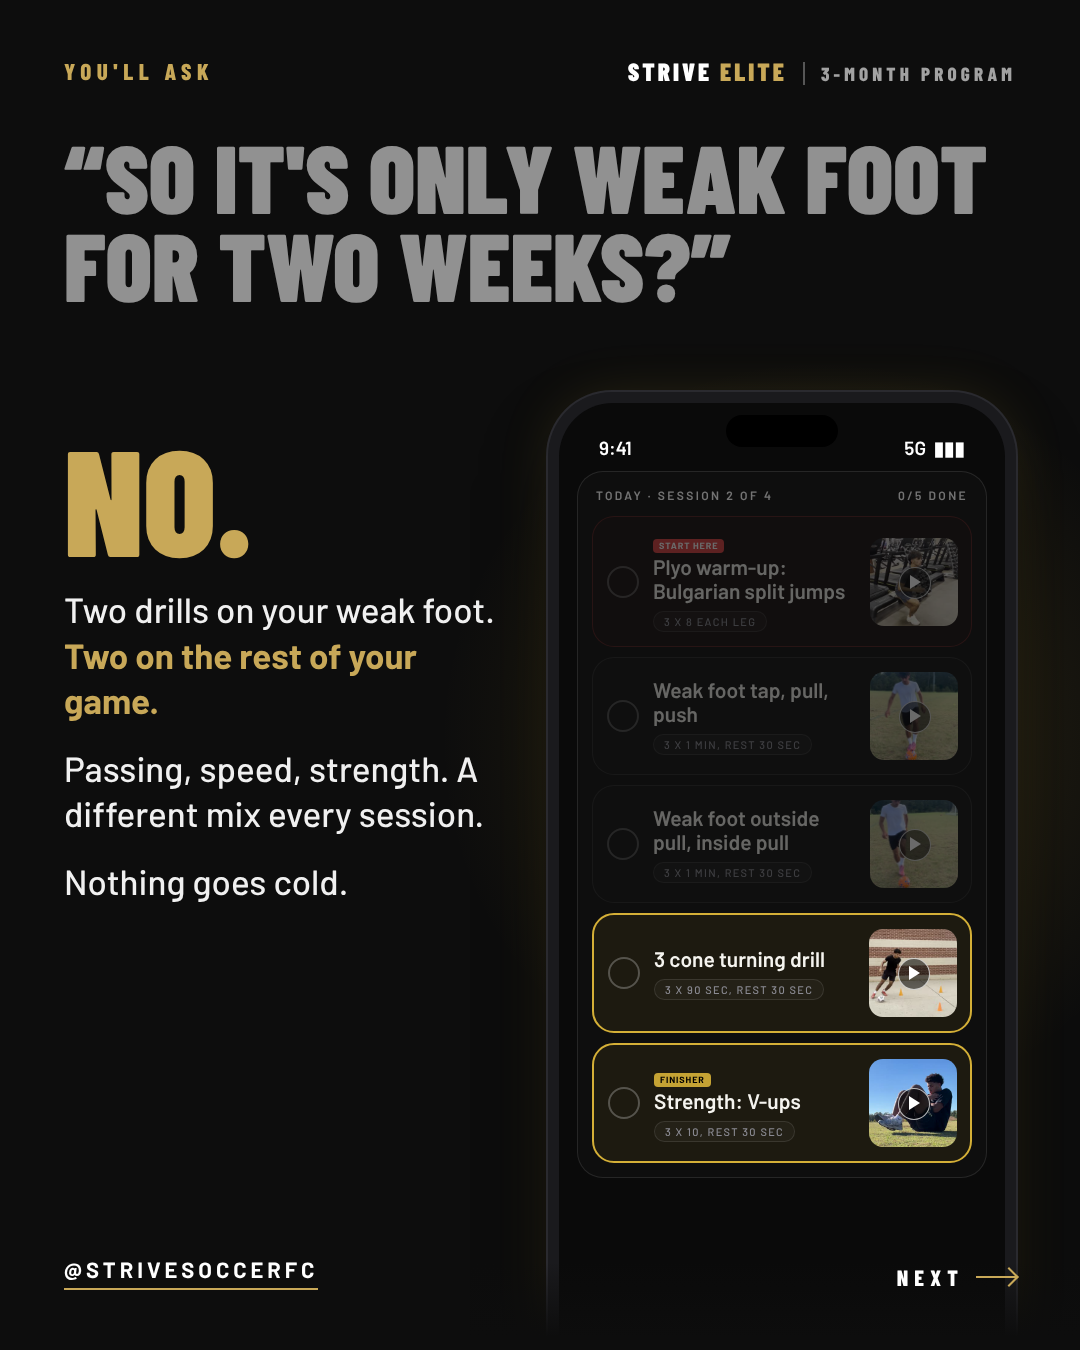
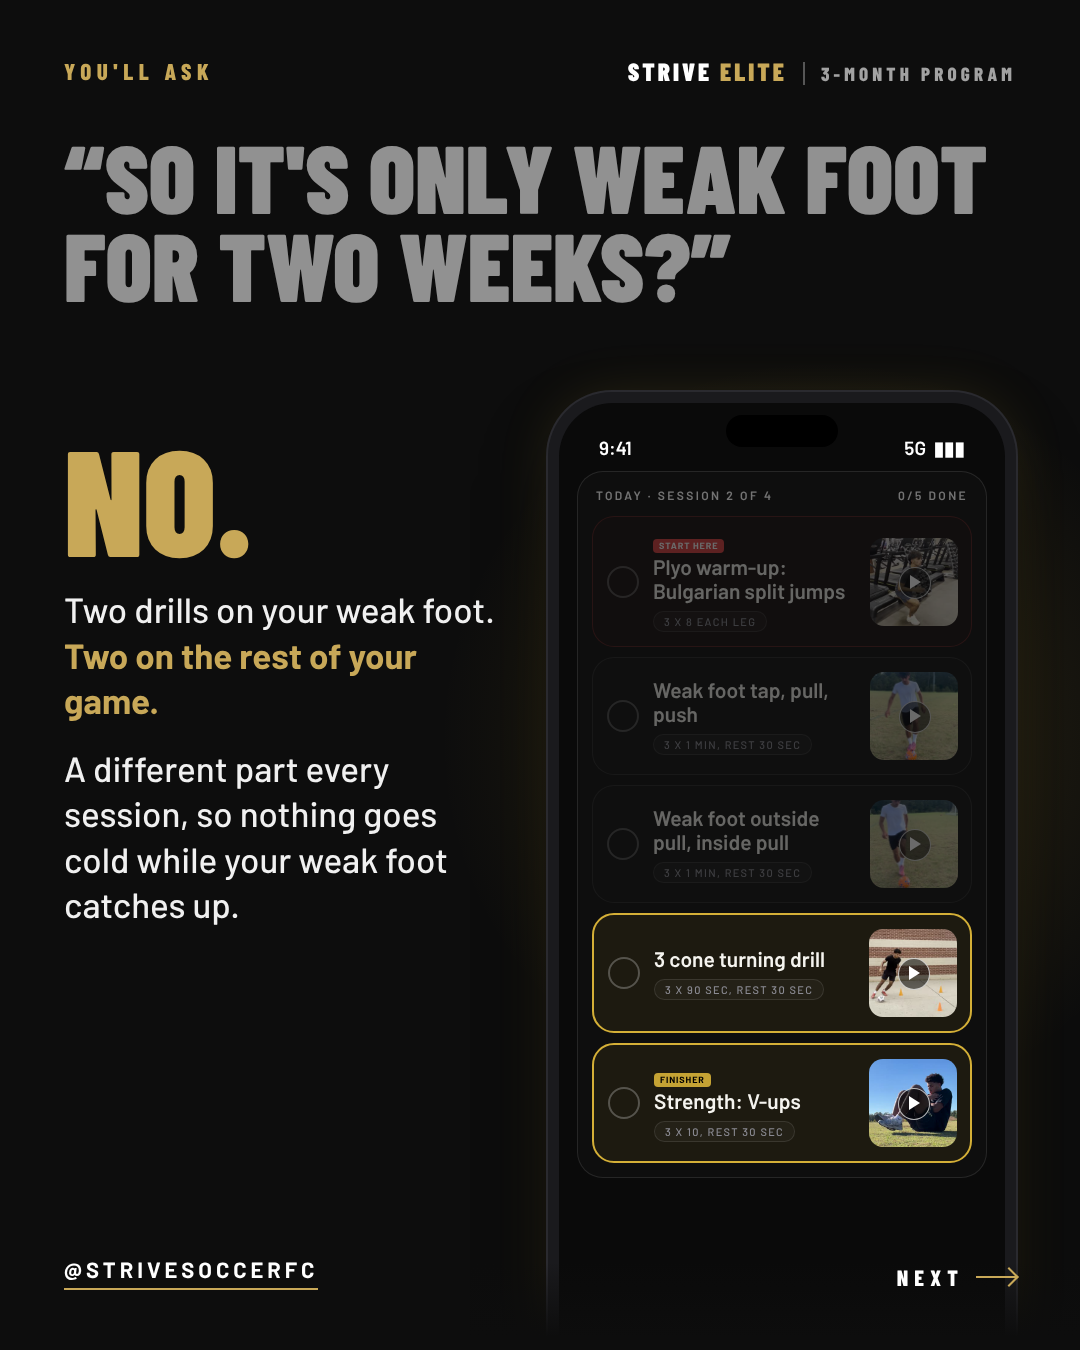
Opinion carousel draft 3: speed and strength and Film Room slides back, twelve slides
Claude-Session: https://claude.ai/code/session_011JsCTTjCbUkHbTuWTKQSXJ

Changed region(s): [[0.0611, 0.56, 0.4583, 0.6844]]

diff --git a/marketing/program/one-thing-carousel-3/10-speed-strength.html b/marketing/program/one-thing-carousel-3/10-speed-strength.html
@@ -1,0 +1,18 @@
+<!doctype html><meta charset="utf-8"><link rel="stylesheet" href="../../covers/strive-elite-meeting/fonts.css"><link rel="stylesheet" href="style.css"><title>Speed and strength</title>
+<style>.q{position:absolute;left:64px;right:64px;top:132px;font-size:96px}.card{min-height:100px;padding:11px 12px 11px 14px}.th{width:76px;height:76px}.phone{top:392px;height:960px}.copy{top:430px}.copy .big{font-size:92px;line-height:.9}</style>
+<div class="glow"></div>
+<div class="top"><div class="step">You'll ask</div><div class="wm">Strive <span>Elite</span><em>3-month program</em></div></div>
+<div class="q">&ldquo;What about speed and strength?&rdquo;</div>
+<div class="copy"><div class="big">They don't wait their turn.</div>
+<p class="p"><b>Speed work</b> comes right after the warm-up. <b>Strength</b> ends the session.</p>
+<p class="p">Every session, for as long as you need them.</p></div>
+<div class="phone"><div class="screen"><div class="island"></div><div class="status"><span>9:41</span><span>5G &nbsp;▮▮▮</span></div><div class="sess"><div class="shd"><span>Today · Session 2 of 4</span><span>0/6 done</span></div><div class="cards">
+<div class="card start lo"><div class="ck"></div><div class="tx"><div class="tl"><span class="bd red">Start here</span><span style="white-space:nowrap">Plyo warm-up:</span> Bulgarian split jumps</div><span class="chip">3 x 8 each leg</span></div><div class="th"><img src="app/plyo-bulgarian-split-jumps.jpg"></div></div>
+<div class="card hi"><div class="ck"></div><div class="tx"><div class="tl">Speed: Kneel and drive</div><span class="chip">4 each side, walk back</span></div><div class="th"><img src="app/speed-kneel-and-drive.jpg"></div></div>
+<div class="card lo"><div class="ck"></div><div class="tx"><div class="tl">Weak foot tap, pull, push</div><span class="chip">3 x 1 min, rest 30 sec</span></div><div class="th"><img src="app/weak-foot-tap-pull-push.jpg"></div></div>
+<div class="card lo"><div class="ck"></div><div class="tx"><div class="tl">Weak foot outside pull, inside pull</div><span class="chip">3 x 1 min, rest 30 sec</span></div><div class="th"><img src="app/weak-foot-outside-pull-inside-pull.jpg"></div></div>
+<div class="card lo"><div class="ck"></div><div class="tx"><div class="tl">3 cone turning drill</div><span class="chip">3 x 90 sec, rest 30 sec</span></div><div class="th"><img src="app/triangle-turning.jpg"></div></div>
+<div class="card hi"><div class="ck"></div><div class="tx"><div class="tl"><span class="bd gd">Finisher</span><span style="white-space:nowrap">Strength: V-ups</span></div><span class="chip">3 x 10, rest 30 sec</span></div><div class="th"><img src="app/strength-v-ups.jpg"></div></div>
+</div></div></div></div>
+<div class="fadeb"></div>
+<div class="handle">@strivesoccerfc</div><div class="swipe">Next <i></i></div>

diff --git a/marketing/program/one-thing-carousel-3/11-film.html b/marketing/program/one-thing-carousel-3/11-film.html
@@ -1,0 +1,35 @@
+<!doctype html><meta charset="utf-8"><link rel="stylesheet" href="../../covers/strive-elite-meeting/fonts.css"><link rel="stylesheet" href="style.css"><title>More to the game</title>
+<style>.q{position:absolute;left:64px;right:64px;top:132px;font-size:96px}.phone{top:404px;height:948px}.copy{top:440px}.copy .big{font-size:118px}
+.fr{padding:26px 22px 24px;margin-top:12px}
+.fr .e{font-size:15px}.fr .w{font-size:46px;margin-top:10px}.fr .s{font-size:19px;margin-top:6px}
+.fr .btn{font-size:20px;padding:12px 26px;margin-top:18px}
+.fr .u{font-size:22px;margin-top:24px;padding-top:20px}.fr .u small{font-size:17px;margin-top:5px;line-height:1.3}
+.fr .cl{font-size:20px;padding:15px 18px;margin-top:11px;border-radius:16px}
+.fr .ok{font-size:17px;margin-top:16px;line-height:1.3}
+.fr.mc{margin-top:16px;padding:22px 22px 24px}
+.fr .u2{margin-top:10px;font-size:24px;font-weight:600;color:#F5F4EF}
+.fr .pills{display:flex;flex-wrap:wrap;gap:10px;margin-top:16px}
+.fr .pills span{border:1px solid rgba(255,255,255,.16);border-radius:999px;padding:9px 16px;font-size:18px;color:#F5F4EF}
+.fr .pills span.on{border-color:#D4AF37;color:#D4AF37}</style>
+<div class="glow"></div>
+<div class="top"><div class="step">You'll ask</div><div class="wm">Strive <span>Elite</span><em>3-month program</em></div></div>
+<div class="q">&ldquo;There's more to the game than drills.&rdquo;</div>
+<div class="copy"><div class="big">We know.</div>
+<p class="p">Every Sunday, Coach Gary and I go through <b>clips from your games</b> with you, live on Zoom.</p>
+<p class="p">And once a month, a 1:1 call on where you're at.</p></div>
+<div class="phone"><div class="screen"><div class="island"></div><div class="status"><span>9:41</span><span>5G &nbsp;▮▮▮</span></div><div class="fr">
+<div class="e">This week's Film Room</div>
+<div class="w">Sunday at 7:00 PM ET</div>
+<div class="s">On Zoom with Coach Yinka and Coach Gary</div>
+<span class="btn">Join on Zoom</span>
+<div class="u">Upload 3 to 5 clips<small>From games or training, so we can watch them first.</small></div>
+<div class="cl"><b>✓</b>Clip 1 sent</div><div class="cl"><b>✓</b>Clip 2 sent</div><div class="cl"><b>✓</b>Clip 3 sent</div>
+<div class="ok">That's a full set. We'll go through them on the call.</div>
+</div><div class="fr mc">
+<div class="e">Monthly check-in call</div>
+<div class="u2">Pick a time</div>
+<div class="s">One call a month. Tap a time to book it.</div>
+<div class="pills"><span>9:00 AM</span><span class="on">9:30 AM</span></div>
+</div></div></div>
+<div class="fadeb"></div>
+<div class="handle">@strivesoccerfc</div><div class="swipe">Next <i></i></div>

diff --git a/marketing/program/one-thing-carousel-3/09-session.html b/marketing/program/one-thing-carousel-3/09-session.html
@@ -5,7 +5,7 @@
 <div class="q">&ldquo;So it's only weak foot for two weeks?&rdquo;</div>
 <div class="copy"><div class="big">No.</div>
 <p class="p">Two drills on your weak foot. <b>Two on the rest of your game.</b></p>
-<p class="p">Passing, speed, strength. A different mix every session.</p><p class="p">Nothing goes cold.</p></div>
+<p class="p">A different part every session, so nothing goes cold while your weak foot catches up.</p></div>
 <div class="phone"><div class="screen"><div class="island"></div><div class="status"><span>9:41</span><span>5G &nbsp;▮▮▮</span></div><div class="sess"><div class="shd"><span>Today · Session 2 of 4</span><span>0/5 done</span></div><div class="cards">
 <div class="card start lo"><div class="ck"></div><div class="tx"><div class="tl"><span class="bd red">Start here</span><span style="white-space:nowrap">Plyo warm-up:</span> Bulgarian split jumps</div><span class="chip">3 x 8 each leg</span></div><div class="th"><img src="app/plyo-bulgarian-split-jumps.jpg"></div></div>
 <div class="card lo"><div class="ck"></div><div class="tx"><div class="tl">Weak foot tap, pull, push</div><span class="chip">3 x 1 min, rest 30 sec</span></div><div class="th"><img src="app/weak-foot-tap-pull-push.jpg"></div></div>

diff --git a/marketing/program/one-thing-carousel-3/12-close.html b/marketing/program/one-thing-carousel-3/12-close.html
@@ -15,6 +15,6 @@ h1{font-size:104px;text-shadow:0 8px 50px rgba(0,0,0,.6)}
 <div class="pn l"></div><div class="pn r"></div><div class="ln"></div><div class="sh"></div>
 <div class="top"><div class="step">That's Strive Elite</div><div class="wm">Strive <span>Elite</span><em>3-month program</em></div></div>
 <div class="low"><h1>One thing at a time. Harder every week. <span>Nothing left behind.</span></h1>
-<p class="p">Three months, built around you by Coach Gary and me. Film Room every Sunday. A 1:1 call every month.</p>
+<p class="p">Three months, built around you by Coach Gary and me.</p>
 <div class="cta"><div class="pill">DM us "Elite"</div><span>Tell us your one thing. We'll take it from there.</span></div></div>
 <div class="handle">@strivesoccerfc</div>

diff --git a/CLAUDE.md b/CLAUDE.md
@@ -4016,6 +4016,7 @@ commit.
       THEN (Coach Yinka: "Add a slide that ads context into the weak foot because we just randomly say the weak foot gets 2 drills. Also can we trim down to less slides and more punchy"): DRAFT 3, NINE slides (draft 2 was twelve) at marketing/program/one-thing-carousel-3/ (html, png, carousel-preview.png, README with every line and the caption). NEW SLIDE 2 sets up the weak foot before the week is counted: "Every player has one thing holding them back." / "SAY IT'S YOUR WEAK FOOT." / "Defenders work it out in ten minutes. Then they show you onto it all game." / "Team training is for the team. This one's on you." / "SO HOW MUCH WORK DOES IT GET?" (the defenders line is mine, a picture not a statistic). Slide 3 answers it: "RIGHT NOW IT GETS 2 DRILLS." / "Four sessions. Twelve drills. A bit of everything. That's not training your weak foot. That's visiting it." TRIMMED: the team slide and "you know this session" are folded into slides 2 and 3; the session objections are ONE slide ("So it's only weak foot for two weeks?" / "No. Two drills on your weak foot. The third is the rest of your game. Speed after the warm-up. Strength to finish. Nothing goes cold.", one phone, those three cards lit); Film Room and the monthly call are one line on the close ("Three months, built around you by Coach Gary and me. Film Room every Sunday. A 1:1 call every month." / DM us "ELITE" / "Tell us your one thing. We'll take it from there."). Order: cover, weak foot, 2 drills, 8, harder, his comeback, you get six, the session, close. Drafts 1 and 2 stay in their folders. Sent, not posted.
       THEN (Coach Yinka, with a screenshot of the six-focus slide: "WOAHH wait what you made was really good, but befor mentioning one thing it needs to be clear in the slides that it's a 30 day program"): the length of the program is now stated before "one thing" comes up, in draft 3 (same folder, re-rendered). I READ "30 day" AS THE 3-MONTH PROGRAM and told him so: the app builds twelve weeks (migration 065), the slide he screenshotted shows months 1 to 3, and the offer is 90 days; a 30-day program would be a different product, not a wording change, so nothing says "30 days". CHANGES: the cover's second line is "A bit of everything keeps you the same player. This is the 3-month program that fixes it."; "3-MONTH PROGRAM" sits beside the Strive Elite wordmark on every slide; slide 7 answers "Good. It's three months. You get six." OPEN, his word: whether he did mean 30 days. Sent, not posted.
       THEN (Coach Yinka: "We should do 4 drills a session. Also keep the slide that was like everybody remembers this session, and it was the average normal session. Also instead of saying same 12 drills it's same 4 sessions."; asked the same hour, his answers: 4 drills a session is "Carousel only", and "2 of 4" go at the one thing): draft 3 is now TEN slides (same folder, renumbered, re-rendered). THE APP IS UNCHANGED, his call: it still builds a warm-up, three skill drills and a finisher, two of the three on the focus. To keep the picture a real session, each row on the "8" slide is weak foot, weak foot, one drill for the rest of the game, and the strength finisher or the speed drill (Passing + Strength, 1v1 skills + Speed, First touch + Strength, Ball mastery + Speed); the warm-up is not counted. CHANGES: (1) "YOU KNOW THIS SESSION." is back as slide 2 (Ten minutes of juggling. Some cone work. A few passes off the wall. A couple of shots. / You sweat. You go home feeling good. / THREE MONTHS LATER YOU'RE THE SAME PLAYER.), the weak foot set-up follows it as slide 3; (2) slide 4, four sessions of four blocks, two gold: "RIGHT NOW IT GETS 2 DRILLS." / "Four sessions. Sixteen drills. A bit of everything. That's not training your weak foot. That's visiting it." (the ordinary week names eight things incl. shooting and speed, as the session a player already does); (3) slide 5 "SAME 4 SESSIONS. NOW IT GETS 8."; (4) the session slide's phone shows the warm-up then four drills, "No. Two drills on your weak foot. Two on the rest of your game. Passing, speed, strength. A different mix every session. Nothing goes cold." Order: cover, this session, weak foot, 2 drills, 8, harder, his comeback, you get six, the session, close. "30 day" versus 3-month is still unanswered by him; the slides say 3-month. Sent, not posted.
+      THEN (Coach Yinka: "I liked the one where it was about strength and speed and. There's more to the game than drills"): both slides are BACK from draft 2, each its own objection, so draft 3 is TWELVE slides: cover, this session, weak foot, 2 drills, 8, harder, his comeback, you get six, "So it's only weak foot for two weeks?" (No. Two on your weak foot, two on the rest of your game), "What about speed and strength?" (They don't wait their turn. Speed work comes right after the warm-up. Strength ends the session.), "There's more to the game than drills." (We know. Film Room every Sunday on Zoom, a 1:1 call once a month; the app's Film Room and check-in cards), close (the Film Room line is off the close again). Sent, not posted.
 
 ## Skills (use them without being asked)
 

diff --git a/marketing/program/one-thing-carousel-3/README.md b/marketing/program/one-thing-carousel-3/README.md
@@ -5,7 +5,7 @@ slide that ads context into the weak foot because we just randomly say
 the weak foot gets 2 drills. Also can we trim down to less slides and
 more punchy."
 
-Draft. Nothing is posted until he approves it. Ten 4:5 slides,
+Draft. Nothing is posted until he approves it. Twelve 4:5 slides,
 1080x1350 (draft 2 was twelve). Render one:
 `node render.mjs 04-two.html 04-two.png`.
 
@@ -28,7 +28,7 @@ Draft. Nothing is posted until he approves it. Ten 4:5 slides,
   rides the wordmark on every slide, and slide 7 answers "Good. It's
   three months. You get six."
 
-## The slides (ten, after his third note)
+## The slides (twelve, after his third and fourth notes)
 
 His note: "We should do 4 drills a session. Also keep the slide that was
 like everybody remembers this session, and it was the average normal
@@ -70,13 +70,23 @@ the strength finisher or the speed drill.
    You get six. Coach Gary and I ask what's holding you back, then put
    them in order. Biggest problem first.
 9. "SO IT'S ONLY WEAK FOOT FOR TWO WEEKS?" / NO. Two drills on your weak
-   foot. Two on the rest of your game. Passing, speed, strength. A
-   different mix every session. Nothing goes cold. (The app's session:
+   foot. Two on the rest of your game. A different part every session, so
+   nothing goes cold while your weak foot catches up. (The app's session:
    the warm-up, then four drills, the last two lit.)
-10. Close. ONE THING AT A TIME. HARDER EVERY WEEK. NOTHING LEFT BEHIND. /
-    Three months, built around you by Coach Gary and me. Film Room every
-    Sunday. A 1:1 call every month. / DM us "ELITE" / Tell us your one
-    thing. We'll take it from there.
+10. "WHAT ABOUT SPEED AND STRENGTH?" / THEY DON'T WAIT THEIR TURN. Speed
+    work comes right after the warm-up. Strength ends the session. Every
+    session, for as long as you need them. (The app's session, both lit.)
+11. "THERE'S MORE TO THE GAME THAN DRILLS." / WE KNOW. Every Sunday, Coach
+    Gary and I go through clips from your games with you, live on Zoom.
+    And once a month, a 1:1 call on where you're at. (The app's Film Room
+    and check-in cards.)
+12. Close. ONE THING AT A TIME. HARDER EVERY WEEK. NOTHING LEFT BEHIND. /
+    Three months, built around you by Coach Gary and me. / DM us "ELITE" /
+    Tell us your one thing. We'll take it from there.
+
+Slides 10 and 11 came back from draft 2 on his fourth note ("I liked the
+one where it was about strength and speed and there's more to the game
+than drills"), so the Film Room line is off the close again.
 
 Every claim is something the app does today (migrations 065 and 062).
 No price, no guarantee, no urgency line.
